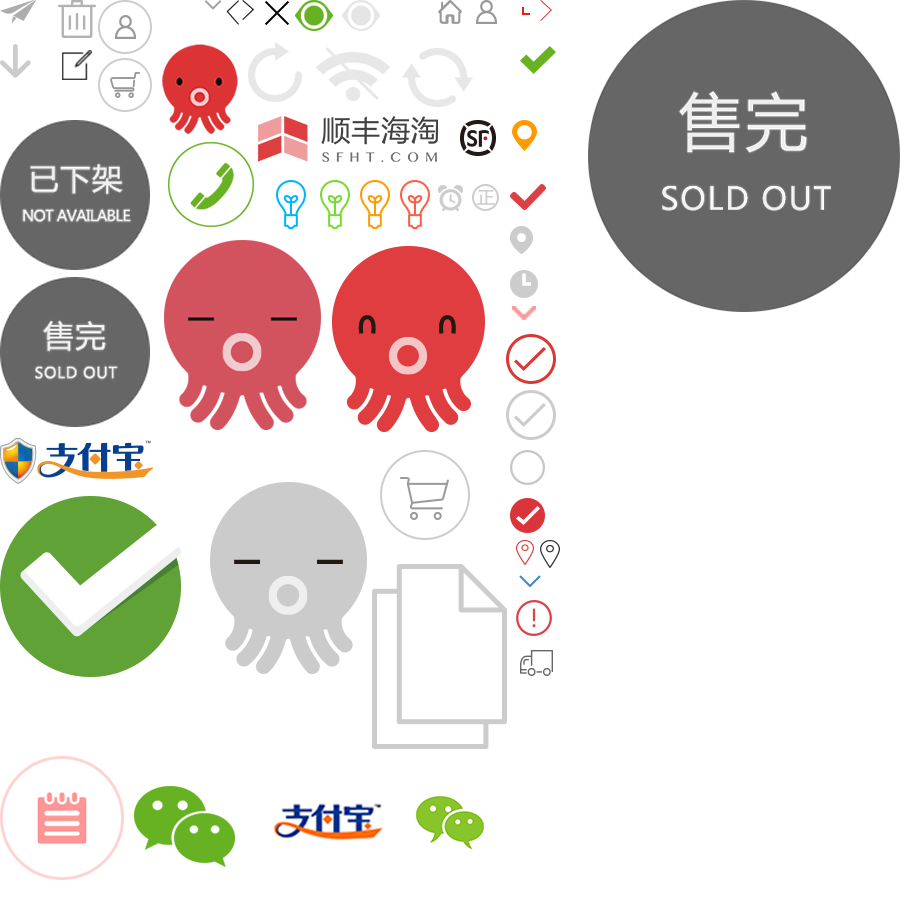
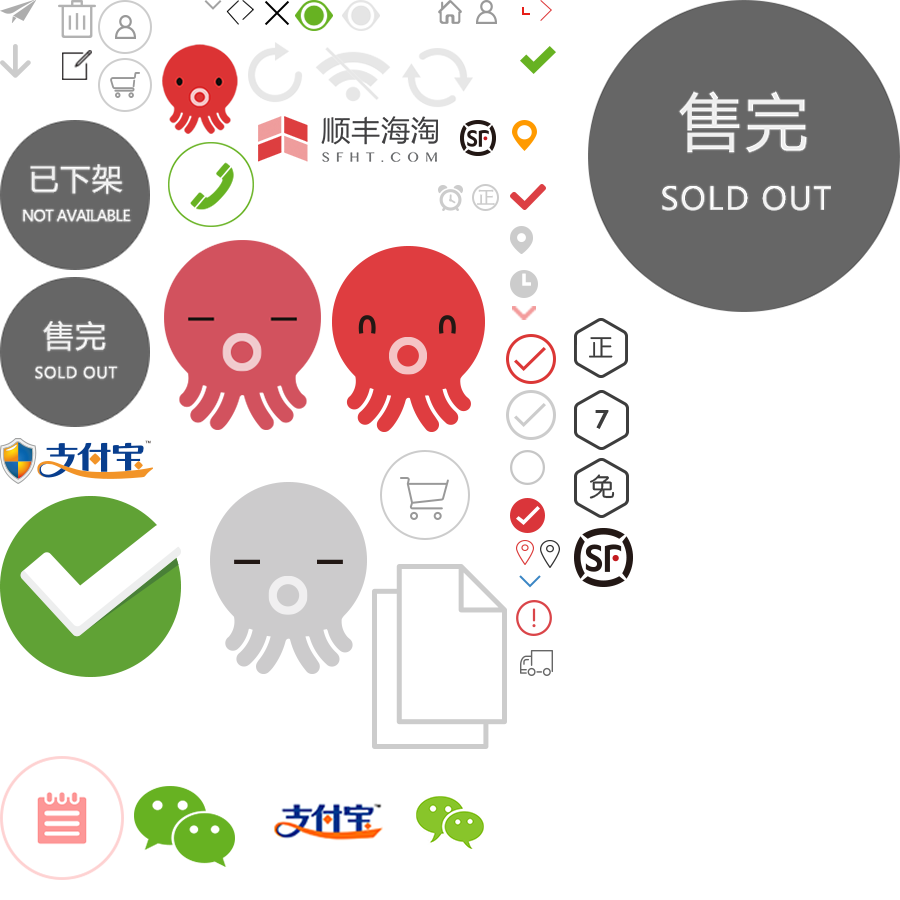
footer

Changed region(s): [[0.6222, 0.3422, 0.7156, 0.6533], [0.3111, 0.1867, 0.4978, 0.2489]]

diff --git a/app/static/html/common.html b/app/static/html/common.html
@@ -1,1 +1,1 @@
-<!DOCTYPE html><html><head><meta charset="UTF-8"><meta name="viewport" content="width=device-width, initial-scale=1, maximum-scale=1, user-scalable=no"><title>顺丰海淘详情页</title><link rel="stylesheet" href="../css/style.css"></head><body><div class="tab-h"><ul class="clearfix"><li class="active"><a href="">未完成(5)</a></li><li><a href="">完成</a></li></ul></div><h2 class="text-h2">视觉隐藏</h2><div class="visuallyhidden">视觉隐藏</div><h2 class="text-h2">垂直居中</h2><div style="width:200px;height:200px;border:1px solid #ccc; position: relative;"><span class="icon icon4 center-vertical">已下架</span></div><h2 class="text-h2">水平垂直居中</h2><div style="width:200px;height:200px;border:1px solid #ccc; position: relative;"><span class="icon icon4 center">已下架</span></div><h2 class="text-h2">两端对齐</h2><div class="justify">两 端 对 齐</div><h2 class="text-h2">1行截断</h2><p class="ellipsis">单行截断单行截断单行截断单行截断单行截断单行截断单行截断单行截断单行截断单行截断单行截断单行截断单行截断单行截断单行截断单行截断单行截断单行截断单行截断单行截断</p><h2 class="text-h2">2行截断</h2><p class="ellipsis2">2行截断2行截断2行截断2行截断2行截断2行截断2行截断2行截断2行截断2行截断2行截断2行截断2行截断2行截断2行截断2行截断2行截断2行截断2行截断2行截断2行截断2行截断2行截断2行截断2行截断2行截断2行截断2行截断2行截断2行截断2行截断2行截断2行截断2行截断2行截断2行截断2行截断2行截断</p><h2 class="text-h2">3行截断</h2><p class="ellipsis3">2行截断2行截断2行截断2行截断2行截断2行截断2行截断2行截断2行截断2行截断2行截断2行截断2行截断2行截断2行截断2行截断2行截断2行截断2行截断2行截断2行截断2行截断2行截断2行截断2行截断2行截断2行截断2行截断2行截断2行截断2行截断2行截断2行截断2行截断2行截断2行截断2行截断2行截断</p><h2 class="text-h2">icon</h2><span class="icon icon1"></span><span class="icon icon2">个人中心</span><span class="icon icon3">顺丰海淘</span><span class="icon icon4">已下架</span><span class="icon icon5">售完</span><span class="icon icon6">支付宝</span><span class="icon icon7">删除</span><span class="icon icon8"></span><span class="icon icon9"></span><span class="icon icon10"></span><span class="icon icon11"></span><span class="icon icon12"></span><span class="icon icon13"></span><span class="icon icon14"></span><span class="icon icon15">关闭</span><span class="icon icon16"></span><span class="icon icon17"></span><span class="icon icon18"></span><span class="icon icon19"></span><span class="icon icon19 active"></span><span class="icon icon20"></span><span class="icon icon21"></span><span class="icon icon22"></span><span class="icon icon23"></span><span class="icon icon24"></span><span class="icon icon25"></span><span class="icon icon26"></span><span class="icon icon27"></span><span class="icon icon28"></span><span class="icon icon29"></span><span class="icon icon30"></span><span class="icon icon31"></span><span class="icon icon32"></span><span class="icon icon33"></span><span class="icon icon34"></span><span class="icon icon35"></span><span class="icon icon36"></span><span class="icon icon37"></span><span class="icon icon38"></span><span class="icon icon39"></span><span class="icon icon40"></span><span class="icon icon41"></span><span class="icon icon42"></span><span class="icon icon43"></span><span class="icon icon44"></span><span class="icon icon45">编辑</span><span class="icon icon46"></span><span class="icon icon47"></span><span class="icon icon48">购物车</span><span class="icon icon49"></span><span class="icon icon49 active"></span><span class="icon icon50"></span><span class="icon icon51"></span><span class="icon icon52"></span><span class="icon icon53"></span><span class="icon icon54"></span><span class="icon icon55"></span><h2 class="text-h2">btn</h2><button class="btn btn-normal">btn-normal</button><button class="btn btn-normal dashed">dashed</button><button class="btn btn-normal active">active</button><button class="btn btn-normal disable">disable</button><button class="btn btn-normal success">success</button><button class="btn btn-normal warnning">warnning</button><button class="btn btn-normal soon">soon</button><br><button class="btn btn-normal">btn-normal</button><button class="btn btn-dashed">btn-dashed</button><button class="btn btn-danger">btn-danger</button><button class="btn btn-disable">btn-disable</button><button class="btn btn-success">btn-success</button><button class="btn btn-warnning">btn-warnning</button><button class="btn btn-soon">btn-soon</button><br><button class="btn btn-normal btn-radius">btn-normal</button><button class="btn btn-dashed btn-radius">btn-dashed</button><button class="btn btn-danger btn-radius">btn-danger</button><button class="btn btn-disable btn-radius">btn-disable</button><button class="btn btn-success btn-radius">btn-success</button><button class="btn btn-warnning btn-radius">btn-warnning</button><button class="btn btn-soon btn-radius">btn-soon</button><br><button class="btn btn-normal btn-big">btn-normal</button><button class="btn btn-dashed btn-big">btn-dashed</button><button class="btn btn-danger btn-big">btn-danger</button><button class="btn btn-disable btn-big">btn-disable</button><button class="btn btn-success btn-big">btn-success</button><button class="btn btn-warnning btn-big">btn-warnning</button><button class="btn btn-soon btn-big">btn-soon</button><h2 class="text-h2">input-num</h2><div class="input-num"><button class="btn">-</button><input type="text" value="1"><button class="btn">+</button></div><h2 class="text-h2">input</h2><input type="text" class="input"><h2 class="text-h2">select</h2><select name="" id="" class="select"><option value="">select</option></select><h2 class="text-h2">textarea</h2><textarea name="" id="" class="textarea"></textarea><h2 class="text-h2">text</h2><div class="text-error">text-error</div><div class="text-disable">text-disable</div><div class="text-success">text-success</div><div class="text-warnning">text-warnning</div><h2 class="text-h2">box</h2><div class="box">box</div><div class="box box1"><a href="" class="box-link">box-link</a><span class="icon icon13 box-arrow center-vertical"></span></div><div class="box box-check active">box<span class="icon icon8"></span></div><h2 class="text-h2">goodslist</h2><ul class="goodslist"><li><img src="../img/list.jpg"><h3 class="ellipsis2">韩国LG润膏无硅油 洗发水 洗护二合一洗护二合一...</h3><div class="goodslist-c1"><div class="orderlist-num">X1</div><div class="text-important">¥56</div></div></li><li><img src="../img/list.jpg"><h3 class="ellipsis2">韩国LG润膏无硅油 洗发水 洗护二合一洗护二合一...</h3><div class="goodslist-c1"><div class="orderlist-num">X1</div><div class="text-important">¥56</div></div></li></ul><h2 class="text-h2">label</h2><span class="label label-error">label-error</span><span class="label label-success">label-success</span><span class="label label-warning">label-warnning</span><span class="label label-disabled">label-disable</span><span class="label label-soon">label-soon</span><h2 class="text-h2">alert</h2><div class="alert-warning">alert-waining</div><div class="alert-success">alert-success</div><div class="alert-error">alert-error</div><div class="alert-disabled">alert-disabled</div><div class="alert-info">alert-info</div><h2 class="text-h2">dot</h2><span class="dot dot-error">50</span><span class="dot dot-important"></span></body></html>
+<!DOCTYPE html><html><head><meta charset="UTF-8"><meta name="viewport" content="width=device-width, initial-scale=1, maximum-scale=1, user-scalable=no"><title>顺丰海淘详情页</title><link rel="stylesheet" href="../css/style.css"></head><body><div class="tab-h"><ul class="clearfix"><li class="active"><a href="">未完成(5)</a></li><li><a href="">完成</a></li></ul></div><h2 class="text-h2">视觉隐藏</h2><div class="visuallyhidden">视觉隐藏</div><h2 class="text-h2">垂直居中</h2><div style="width:200px;height:200px;border:1px solid #ccc; position: relative;"><span class="icon icon4 center-vertical">已下架</span></div><h2 class="text-h2">水平垂直居中</h2><div style="width:200px;height:200px;border:1px solid #ccc; position: relative;"><span class="icon icon4 center">已下架</span></div><h2 class="text-h2">两端对齐</h2><div class="justify">两 端 对 齐</div><h2 class="text-h2">1行截断</h2><p class="ellipsis">单行截断单行截断单行截断单行截断单行截断单行截断单行截断单行截断单行截断单行截断单行截断单行截断单行截断单行截断单行截断单行截断单行截断单行截断单行截断单行截断</p><h2 class="text-h2">2行截断</h2><p class="ellipsis2">2行截断2行截断2行截断2行截断2行截断2行截断2行截断2行截断2行截断2行截断2行截断2行截断2行截断2行截断2行截断2行截断2行截断2行截断2行截断2行截断2行截断2行截断2行截断2行截断2行截断2行截断2行截断2行截断2行截断2行截断2行截断2行截断2行截断2行截断2行截断2行截断2行截断2行截断</p><h2 class="text-h2">3行截断</h2><p class="ellipsis3">2行截断2行截断2行截断2行截断2行截断2行截断2行截断2行截断2行截断2行截断2行截断2行截断2行截断2行截断2行截断2行截断2行截断2行截断2行截断2行截断2行截断2行截断2行截断2行截断2行截断2行截断2行截断2行截断2行截断2行截断2行截断2行截断2行截断2行截断2行截断2行截断2行截断2行截断</p><h2 class="text-h2">icon</h2><span class="icon icon1"></span><span class="icon icon2">个人中心</span><span class="icon icon3">顺丰海淘</span><span class="icon icon4">已下架</span><span class="icon icon5">售完</span><span class="icon icon6">支付宝</span><span class="icon icon7">删除</span><span class="icon icon8"></span><span class="icon icon9"></span><span class="icon icon10"></span><span class="icon icon11"></span><span class="icon icon12"></span><span class="icon icon13"></span><span class="icon icon14"></span><span class="icon icon15">关闭</span><span class="icon icon16"></span><span class="icon icon17"></span><span class="icon icon18"></span><span class="icon icon19"></span><span class="icon icon19 active"></span><span class="icon icon20"></span><span class="icon icon21"></span><span class="icon icon22"></span><span class="icon icon23"></span><span class="icon icon24"></span><span class="icon icon25"></span><span class="icon icon26"></span><span class="icon icon27"></span><span class="icon icon28"></span><span class="icon icon29"></span><span class="icon icon30"></span><span class="icon icon31"></span><span class="icon icon32"></span><span class="icon icon33"></span><span class="icon icon34"></span><span class="icon icon35"></span><span class="icon icon36"></span><span class="icon icon37"></span><span class="icon icon38"></span><span class="icon icon39"></span><span class="icon icon40"></span><span class="icon icon41"></span><span class="icon icon42"></span><span class="icon icon43"></span><span class="icon icon44"></span><span class="icon icon45">编辑</span><span class="icon icon46"></span><span class="icon icon47"></span><span class="icon icon48">购物车</span><span class="icon icon49"></span><span class="icon icon49 active"></span><span class="icon icon50"></span><span class="icon icon51"></span><span class="icon icon52"></span><span class="icon icon53"></span><span class="icon icon54"></span><span class="icon icon55"></span><span class="icon icon56"></span><span class="icon icon57"></span><span class="icon icon58"></span><span class="icon icon59"></span><h2 class="text-h2">btn</h2><button class="btn btn-normal">btn-normal</button><button class="btn btn-normal dashed">dashed</button><button class="btn btn-normal active">active</button><button class="btn btn-normal disable">disable</button><button class="btn btn-normal success">success</button><button class="btn btn-normal warnning">warnning</button><button class="btn btn-normal soon">soon</button><br><button class="btn btn-normal">btn-normal</button><button class="btn btn-dashed">btn-dashed</button><button class="btn btn-danger">btn-danger</button><button class="btn btn-disable">btn-disable</button><button class="btn btn-success">btn-success</button><button class="btn btn-warnning">btn-warnning</button><button class="btn btn-soon">btn-soon</button><br><button class="btn btn-normal btn-radius">btn-normal</button><button class="btn btn-dashed btn-radius">btn-dashed</button><button class="btn btn-danger btn-radius">btn-danger</button><button class="btn btn-disable btn-radius">btn-disable</button><button class="btn btn-success btn-radius">btn-success</button><button class="btn btn-warnning btn-radius">btn-warnning</button><button class="btn btn-soon btn-radius">btn-soon</button><br><button class="btn btn-normal btn-big">btn-normal</button><button class="btn btn-dashed btn-big">btn-dashed</button><button class="btn btn-danger btn-big">btn-danger</button><button class="btn btn-disable btn-big">btn-disable</button><button class="btn btn-success btn-big">btn-success</button><button class="btn btn-warnning btn-big">btn-warnning</button><button class="btn btn-soon btn-big">btn-soon</button><h2 class="text-h2">input-num</h2><div class="input-num"><button class="btn">-</button><input type="text" value="1"><button class="btn">+</button></div><h2 class="text-h2">input</h2><input type="text" class="input"><h2 class="text-h2">select</h2><select name="" id="" class="select"><option value="">select</option></select><h2 class="text-h2">textarea</h2><textarea name="" id="" class="textarea"></textarea><h2 class="text-h2">text</h2><div class="text-error">text-error</div><div class="text-disable">text-disable</div><div class="text-success">text-success</div><div class="text-warnning">text-warnning</div><h2 class="text-h2">box</h2><div class="box">box</div><div class="box box1"><a href="" class="box-link">box-link</a><span class="icon icon13 box-arrow center-vertical"></span></div><div class="box box-check active">box<span class="icon icon8"></span></div><h2 class="text-h2">goodslist</h2><ul class="goodslist"><li><img src="../img/list.jpg"><h3 class="ellipsis2">韩国LG润膏无硅油 洗发水 洗护二合一洗护二合一...</h3><div class="goodslist-c1"><div class="orderlist-num">X1</div><div class="text-important">¥56</div></div></li><li><img src="../img/list.jpg"><h3 class="ellipsis2">韩国LG润膏无硅油 洗发水 洗护二合一洗护二合一...</h3><div class="goodslist-c1"><div class="orderlist-num">X1</div><div class="text-important">¥56</div></div></li></ul><h2 class="text-h2">label</h2><span class="label label-error">label-error</span><span class="label label-success">label-success</span><span class="label label-warning">label-warnning</span><span class="label label-disabled">label-disable</span><span class="label label-soon">label-soon</span><h2 class="text-h2">alert</h2><div class="alert-warning">alert-waining</div><div class="alert-success">alert-success</div><div class="alert-error">alert-error</div><div class="alert-disabled">alert-disabled</div><div class="alert-info">alert-info</div><h2 class="text-h2">dot</h2><span class="dot dot-error">50</span><span class="dot dot-important"></span></body></html>

diff --git a/app/static/html/index.html b/app/static/html/index.html
@@ -31,4 +31,4 @@
           </div>
       </div>
   </li>
-  </ul></栏婴儿奶粉1段></section><!--狂欢专场--><!--大家都在买--><section class="buying"><h2 class="text-h2">大家都在买</h2><ul class="list clearfix"><li><a href="detail.html"><div class="list-r1 vertical-middle"><img src="../img/list.jpg" alt=""><span class="label-danger">7.5折</span><div class="mask"><span class="icon icon5 center">售完</span></div></div><div class="list-b"><h2 class="ellipsis2">日本LOSHI护肤滋日本LOSHI护肤滋日本LOSHI护肤滋</h2><div class="list-r3 clearfix"><div class="list-r3c1 fl"><span class="list-price">¥1280</span><del>¥1680</del></div>	<div class="list-r3c2 fr"><img src="../img/flag.png" alt="国旗"></div></div></div>		</a></li><li><a href="detail.html"><div class="list-r1 vertical-middle"><img src="../img/list.jpg" alt=""><span class="label-danger">7.5折</span><div class="mask"><span class="icon icon5 center">售完</span></div></div><div class="list-b"><h2 class="ellipsis2">日本LOSHI护肤滋日本LOSHI护肤滋日本LOSHI护肤滋</h2><div class="list-r3 clearfix"><div class="list-r3c1 fl"><span class="list-price">¥1280</span><del>¥1680</del></div>	<div class="list-r3c2 fr"><img src="../img/flag.png" alt="国旗"></div></div></div>		</a></li><li><a href="detail.html"><div class="list-r1 vertical-middle"><img src="../img/list.jpg" alt=""><span class="label-danger">7.5折</span><div class="mask"><span class="icon icon5 center">售完</span></div></div><div class="list-b"><h2 class="ellipsis2">日本LOSHI护肤滋日本LOSHI护肤滋日本LOSHI护肤滋</h2><div class="list-r3 clearfix"><div class="list-r3c1 fl"><span class="list-price">¥1280</span><del>¥1680</del></div>	<div class="list-r3c2 fr"><img src="../img/flag.png" alt="国旗"></div></div></div>		</a></li><li><a href="detail.html"><div class="list-r1 vertical-middle"><img src="../img/list.jpg" alt=""><span class="label-danger">7.5折</span><div class="mask"><span class="icon icon5 center">售完</span></div></div><div class="list-b"><h2 class="ellipsis2">日本LOSHI护肤滋日本LOSHI护肤滋日本LOSHI护肤滋</h2><div class="list-r3 clearfix"><div class="list-r3c1 fl"><span class="list-price">¥1280</span><del>¥1680</del></div>	<div class="list-r3c2 fr"><img src="../img/flag.png" alt="国旗"></div></div></div>		</a></li></ul></section><!--大家都在买--><footer class="footer"><div class="footer-r1"><ul class="clearfix"><li class="li1">100%正品保障</li><li class="li2">全球精选特卖</li><li class="li3">含税包邮</li><li class="li4"><span class="icon icon38"></span>顶尖物流</li></ul></div><div class="footer-r2"><a href="tel:021-69763622">客服热线:021-69763622</a></div><div class="footer-r3">Copyright © 顺丰海淘</div>	</footer><script src="../js/zepto.min.js"></script><script src="../js/swipe.js"></script><script src="../js/slider.js"></script></body></html>
+  </ul></栏婴儿奶粉1段></section><!--狂欢专场--><!--大家都在买--><section class="buying"><h2 class="text-h2">大家都在买</h2><ul class="list clearfix"><li><a href="detail.html"><div class="list-r1 vertical-middle"><img src="../img/list.jpg" alt=""><span class="label-danger">7.5折</span><div class="mask"><span class="icon icon5 center">售完</span></div></div><div class="list-b"><h2 class="ellipsis2">日本LOSHI护肤滋日本LOSHI护肤滋日本LOSHI护肤滋</h2><div class="list-r3 clearfix"><div class="list-r3c1 fl"><span class="list-price">¥1280</span><del>¥1680</del></div>	<div class="list-r3c2 fr"><img src="../img/flag.png" alt="国旗"></div></div></div>		</a></li><li><a href="detail.html"><div class="list-r1 vertical-middle"><img src="../img/list.jpg" alt=""><span class="label-danger">7.5折</span><div class="mask"><span class="icon icon5 center">售完</span></div></div><div class="list-b"><h2 class="ellipsis2">日本LOSHI护肤滋日本LOSHI护肤滋日本LOSHI护肤滋</h2><div class="list-r3 clearfix"><div class="list-r3c1 fl"><span class="list-price">¥1280</span><del>¥1680</del></div>	<div class="list-r3c2 fr"><img src="../img/flag.png" alt="国旗"></div></div></div>		</a></li><li><a href="detail.html"><div class="list-r1 vertical-middle"><img src="../img/list.jpg" alt=""><span class="label-danger">7.5折</span><div class="mask"><span class="icon icon5 center">售完</span></div></div><div class="list-b"><h2 class="ellipsis2">日本LOSHI护肤滋日本LOSHI护肤滋日本LOSHI护肤滋</h2><div class="list-r3 clearfix"><div class="list-r3c1 fl"><span class="list-price">¥1280</span><del>¥1680</del></div>	<div class="list-r3c2 fr"><img src="../img/flag.png" alt="国旗"></div></div></div>		</a></li><li><a href="detail.html"><div class="list-r1 vertical-middle"><img src="../img/list.jpg" alt=""><span class="label-danger">7.5折</span><div class="mask"><span class="icon icon5 center">售完</span></div></div><div class="list-b"><h2 class="ellipsis2">日本LOSHI护肤滋日本LOSHI护肤滋日本LOSHI护肤滋</h2><div class="list-r3 clearfix"><div class="list-r3c1 fl"><span class="list-price">¥1280</span><del>¥1680</del></div>	<div class="list-r3c2 fr"><img src="../img/flag.png" alt="国旗"></div></div></div>		</a></li></ul></section><!--大家都在买--><footer class="footer"><div class="footer-r1"><ul class="clearfix"><li><span class="icon icon56"></span>100%正品保障</li><li><span class="icon icon57"></span>七天无忧</li><li><span class="icon icon58"></span>极速免税店</li><li><span class="icon icon59"></span>顶尖物流</li></ul></div><div class="footer-r2"><a href="tel:021-69763622">客服热线:021-69763622</a></div><div class="footer-r3">Copyright © 顺丰海淘</div>	</footer><script src="../js/zepto.min.js"></script><script src="../js/swipe.js"></script><script src="../js/slider.js"></script></body></html>

diff --git a/app/static/module/footer/index.html b/app/static/module/footer/index.html
@@ -1,1 +1,1 @@
-<!DOCTYPE html><html><head><meta charset="UTF-8"><meta name="viewport" content="width=device-width, initial-scale=1, maximum-scale=1, user-scalable=no"><title>顺丰海淘详情页</title><link rel="stylesheet" href="../../css/common.css"><link rel="stylesheet" href="style.css"></head><body class="body1"><footer class="footer"><div class="footer-r1"><ul class="clearfix"><li class="li1">100%正品保障</li><li class="li2">全球精选特卖</li><li class="li3">含税包邮</li><li class="li4"><span class="icon icon38"></span>顶尖物流</li></ul></div><div class="footer-r2"><a href="tel:021-69763622">客服热线:021-69763622</a></div><div class="footer-r3">Copyright © 顺丰海淘</div>	</footer></body></html>
+<!DOCTYPE html><html><head><meta charset="UTF-8"><meta name="viewport" content="width=device-width, initial-scale=1, maximum-scale=1, user-scalable=no"><title>顺丰海淘详情页</title><link rel="stylesheet" href="../../css/common.css"><link rel="stylesheet" href="style.css"></head><body class="body1"><footer class="footer"><div class="footer-r1"><ul class="clearfix"><li><span class="icon icon56"></span>100%正品保障</li><li><span class="icon icon57"></span>七天无忧</li><li><span class="icon icon58"></span>极速免税店</li><li><span class="icon icon59"></span>顶尖物流</li></ul></div><div class="footer-r2"><a href="tel:021-69763622">客服热线:021-69763622</a></div><div class="footer-r3">Copyright © 顺丰海淘</div>	</footer></body></html>

diff --git a/app/static/css/common.css b/app/static/css/common.css
@@ -420,14 +420,15 @@ a[title="站长统计"] {
 }
 
 .footer-r1 li {
-  padding: 4px 6px;
+  padding: 0 10px;
   font-size: 12px;
   float: left;
-  text-align: left;
+  text-align: center;
 }
 
 .footer-r1 li .icon {
-  margin-right: 3px;
+  display: block;
+  margin: 0 auto 4px;
 }
 
 .footer-r1 h2 {
@@ -436,6 +437,8 @@ a[title="站长统计"] {
 
 .footer-r1 li:last-child {
   border-left: 1px solid #e5e5e5;
+  padding-left: 12px;
+  margin-left: 2px;
 }
 
 .footer-r2 {
@@ -949,6 +952,30 @@ a[title="站长统计"] {
   width: 68px;
   height: 93px;
   background-position: -186px -282px;
+}
+
+.icon56 {
+  width: 27px;
+  height: 30px;
+  background-position: -287px -159px;
+}
+
+.icon57 {
+  width: 28px;
+  height: 30px;
+  background-position: -287px -195px;
+}
+
+.icon58 {
+  width: 28px;
+  height: 30px;
+  background-position: -287px -229px;
+}
+
+.icon59 {
+  width: 29px;
+  height: 29px;
+  background-position: -287px -264px;
 }
 
 /*text*/

diff --git a/app/static/css/style.css b/app/static/css/style.css
@@ -420,14 +420,15 @@ a[title="站长统计"] {
 }
 
 .footer-r1 li {
-  padding: 4px 6px;
+  padding: 0 10px;
   font-size: 12px;
   float: left;
-  text-align: left;
+  text-align: center;
 }
 
 .footer-r1 li .icon {
-  margin-right: 3px;
+  display: block;
+  margin: 0 auto 4px;
 }
 
 .footer-r1 h2 {
@@ -436,6 +437,8 @@ a[title="站长统计"] {
 
 .footer-r1 li:last-child {
   border-left: 1px solid #e5e5e5;
+  padding-left: 12px;
+  margin-left: 2px;
 }
 
 .footer-r2 {
@@ -949,6 +952,30 @@ a[title="站长统计"] {
   width: 68px;
   height: 93px;
   background-position: -186px -282px;
+}
+
+.icon56 {
+  width: 27px;
+  height: 30px;
+  background-position: -287px -159px;
+}
+
+.icon57 {
+  width: 28px;
+  height: 30px;
+  background-position: -287px -195px;
+}
+
+.icon58 {
+  width: 28px;
+  height: 30px;
+  background-position: -287px -229px;
+}
+
+.icon59 {
+  width: 29px;
+  height: 29px;
+  background-position: -287px -264px;
 }
 
 /*text*/

diff --git a/app/static/css/superman.css b/app/static/css/superman.css
@@ -637,6 +637,30 @@ a[title="站长统计"] {
   background-position: -186px -282px;
 }
 
+.icon56 {
+  width: 27px;
+  height: 30px;
+  background-position: -287px -159px;
+}
+
+.icon57 {
+  width: 28px;
+  height: 30px;
+  background-position: -287px -195px;
+}
+
+.icon58 {
+  width: 28px;
+  height: 30px;
+  background-position: -287px -229px;
+}
+
+.icon59 {
+  width: 29px;
+  height: 29px;
+  background-position: -287px -264px;
+}
+
 .superman {
   background: url(../img/superman.jpg) no-repeat center top;
   height: 604px;

diff --git a/app/static/scss/layout/_footer.scss b/app/static/scss/layout/_footer.scss
@@ -12,19 +12,22 @@
   display: inline-block;
  }
 .footer-r1 li {  
-    padding:4px 6px;
+    padding:0 10px;
     font-size: 12px;
     float:left;
-    text-align: left;
+    text-align: center;
 }
 .footer-r1 li .icon{
-  margin-right: 3px;
+  display: block;
+  margin: 0 auto 4px;
 }
 .footer-r1 h2{
     font-weight: normal;
 }
 .footer-r1 li:last-child{
   border-left:1px solid #e5e5e5;
+  padding-left: 12px;
+  margin-left: 2px;
 }
 
 

diff --git a/app/static/scss/components/_icon.scss b/app/static/scss/components/_icon.scss
@@ -290,3 +290,23 @@
   height: 93px;
   background-position: -186px -282px;
 }
+.icon56{
+  width: 27px;
+  height: 30px;
+  background-position: -287px -159px;
+}
+.icon57{
+  width: 28px;
+  height: 30px;
+  background-position: -287px -195px;
+}
+.icon58{
+  width: 28px;
+  height: 30px;
+  background-position: -287px -229px;
+}
+.icon59{
+  width: 29px;
+  height: 29px;
+  background-position: -287px -264px;
+}
